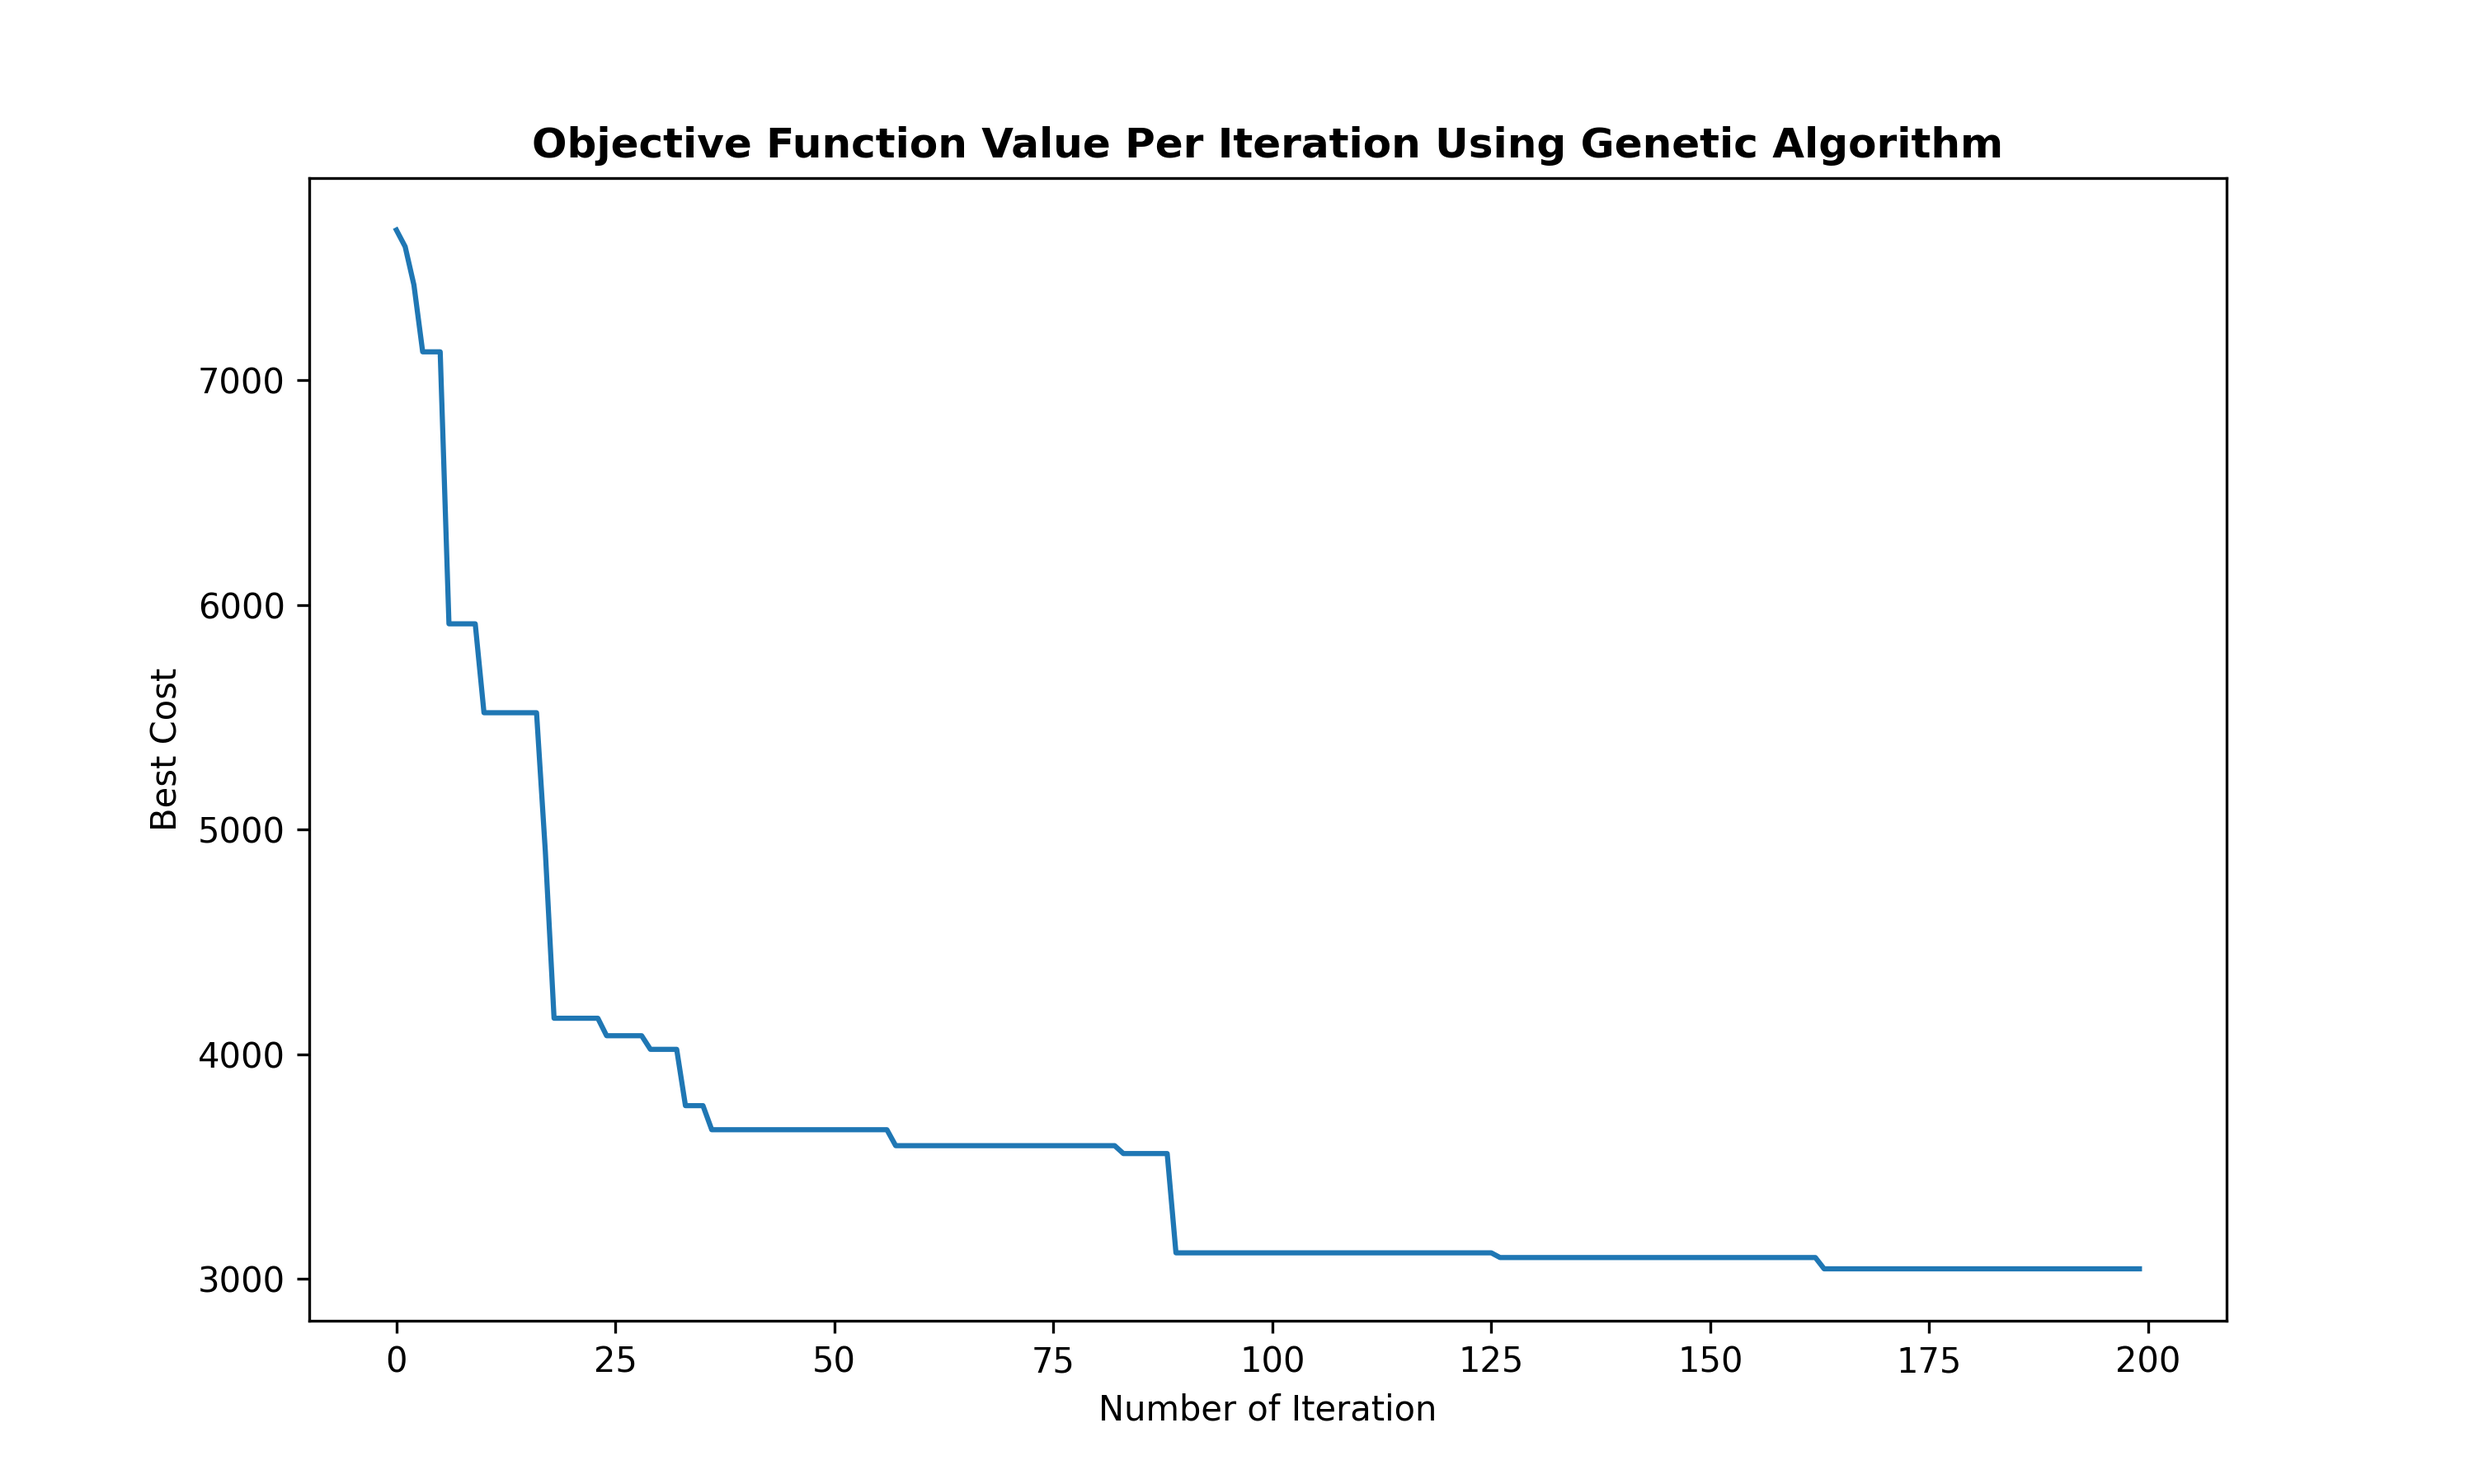
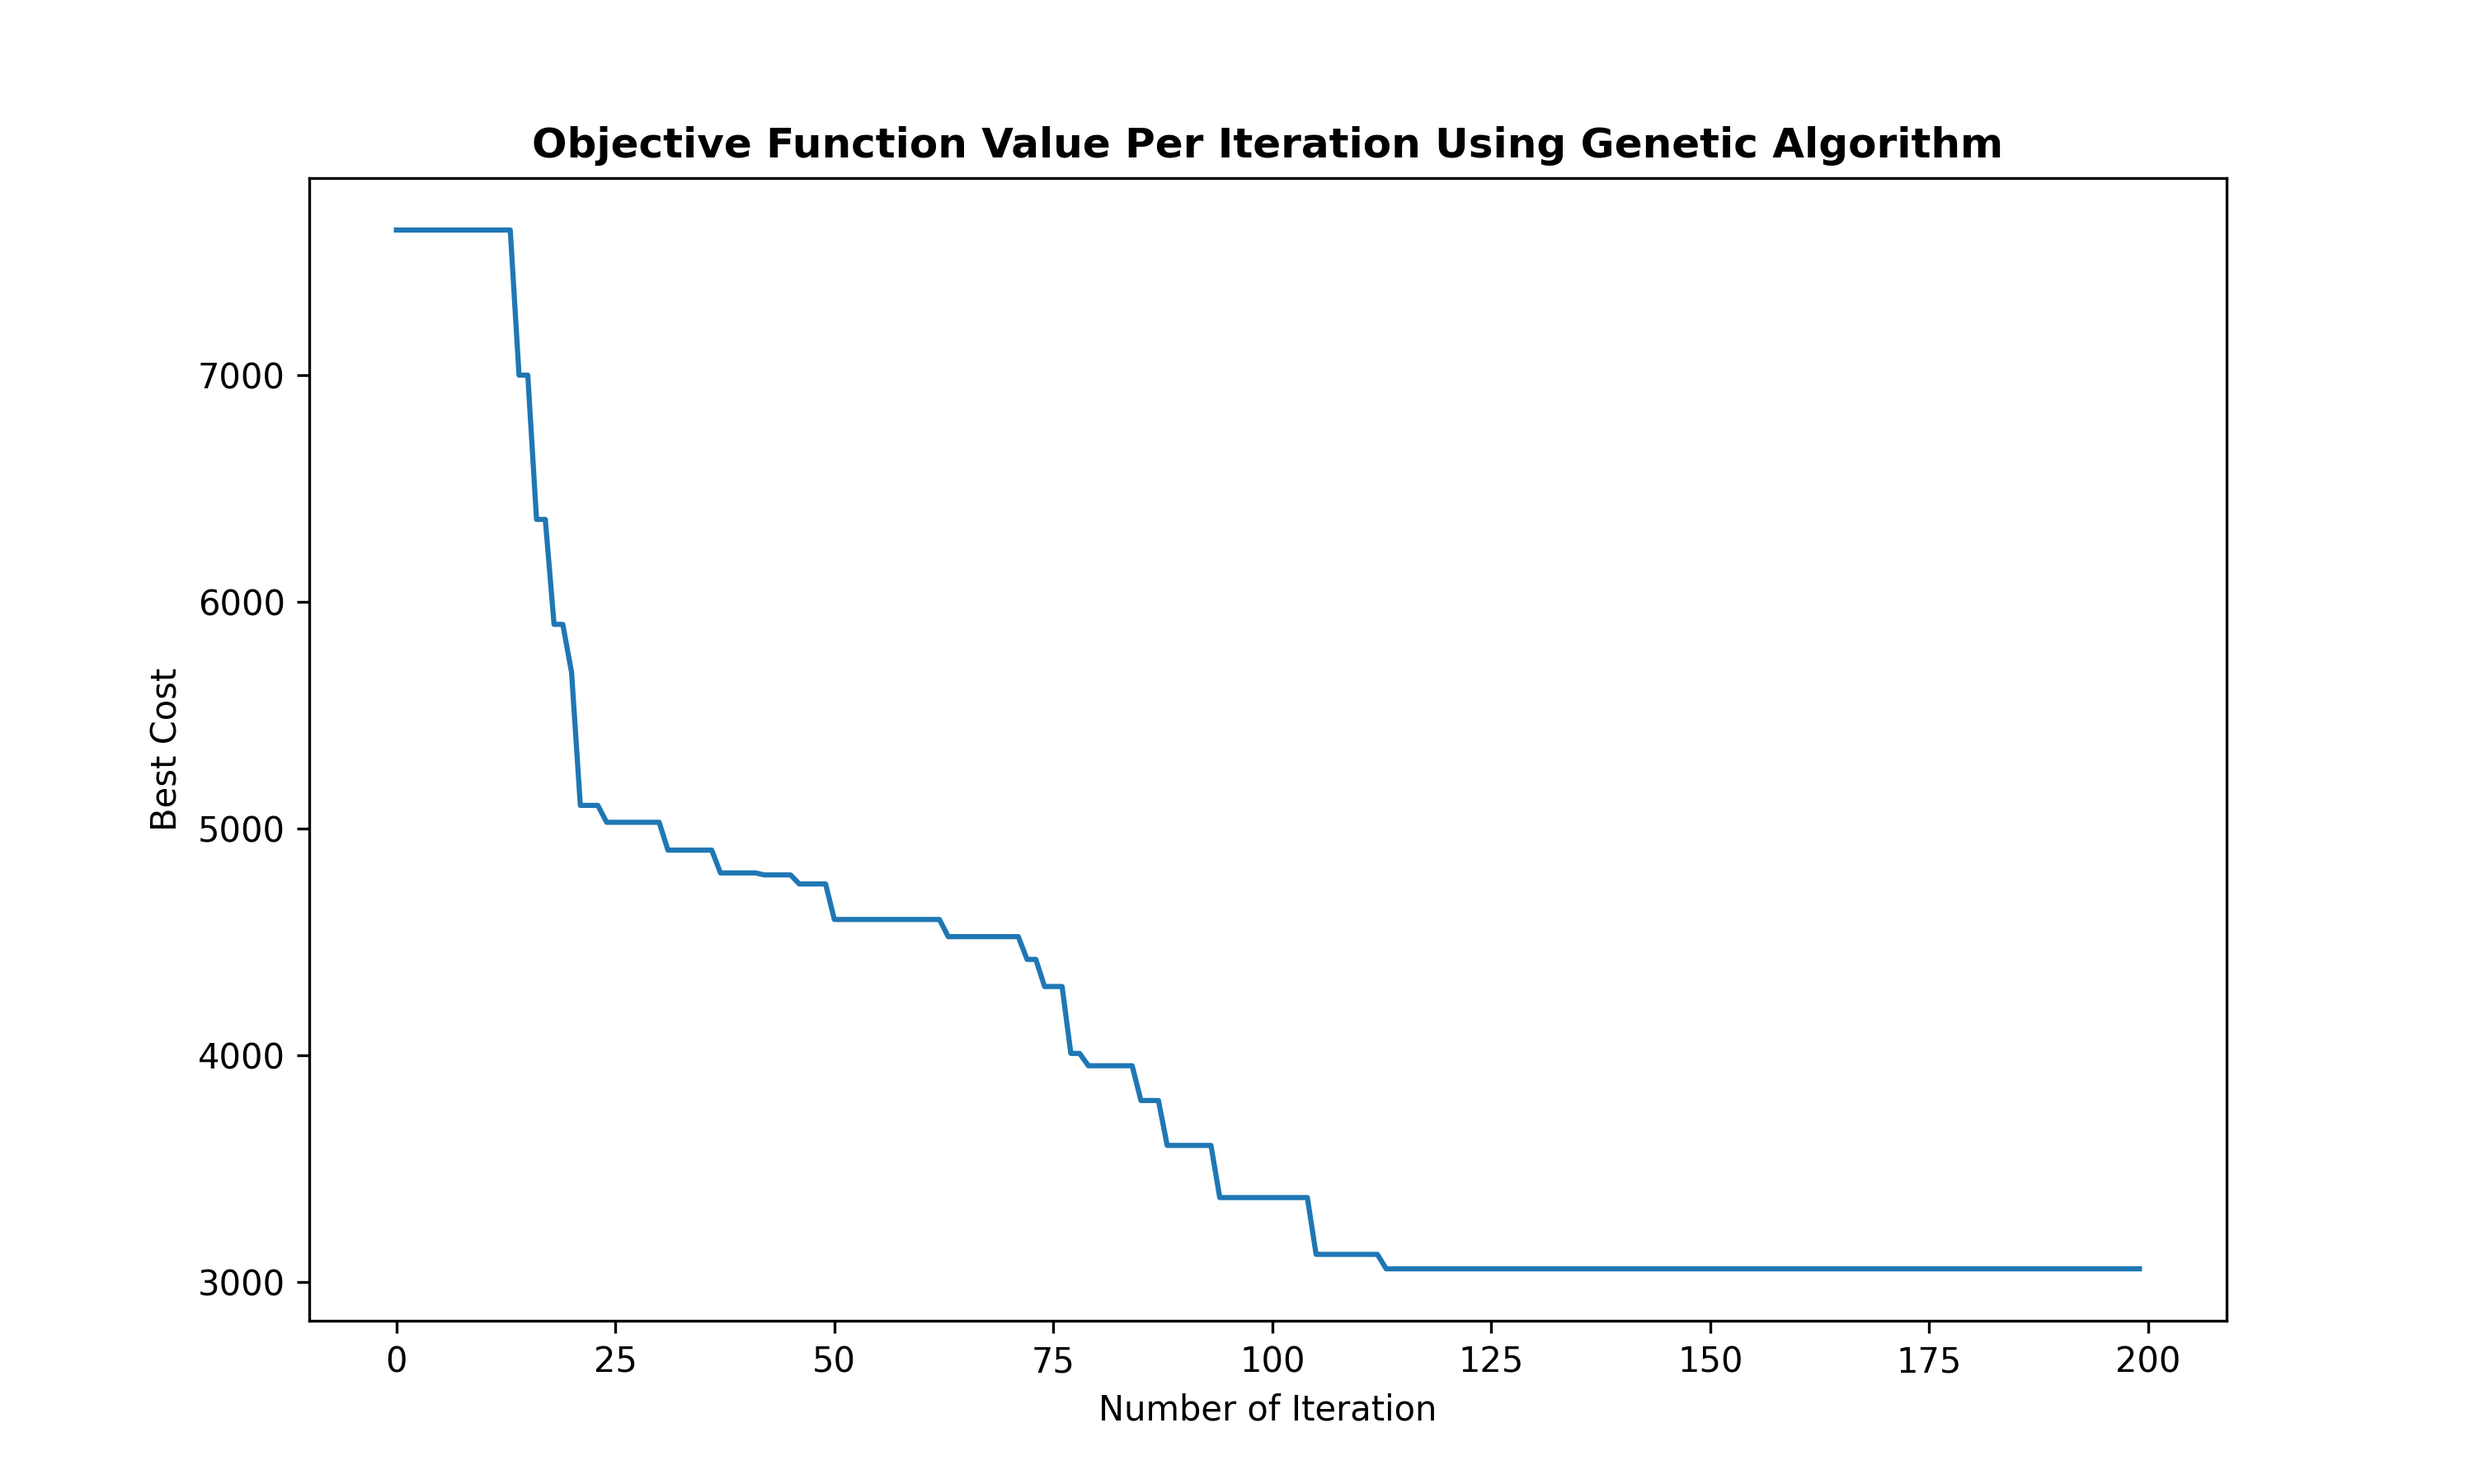
Quadratic Assignment Problem solved using Particle Swarm Optimization.

diff --git a/quadratic_assignment_problem/main.py b/quadratic_assignment_problem/main.py
@@ -2,6 +2,7 @@ from evolutionary_algorithms_examples.quadratic_assignment_problem.data import D
 from evolutionary_algorithms_examples.quadratic_assignment_problem.quadratic_assignment_problem import QuadraticAssignmentProblem
 from evolutionary_algorithms_examples.quadratic_assignment_problem.plot_assignment import plot
 from evolutionary_algorithms.genetic_algorithm import GA
+from evolutionary_algorithms.particle_swarm_optimization import PSO
 
 
 def main():
@@ -12,27 +13,50 @@ def main():
     # data.create_and_save()
 
     model_data = Data.load()
-    type_number_of_variables = {"permutation1D": [len(model_data["locations_x"])]}
+    # type_number_of_variables = {"permutation1D": [len(model_data["locations_x"])]}
+
+    type_number_of_variables = {"real1D": [len(model_data["locations_x"])]}
 
     problem = QuadraticAssignmentProblem()
     cost_func = problem.cost_function
 
-    solution_method = GA(cost_function=cost_func,
-                         type_number_of_variables=type_number_of_variables,
-                         max_iteration=200,
-                         number_of_population=20,
-                         parents_selection_method="roulette_wheel_selection",
-                         selection_pressure_for_roulette_wheel=7,
-                         crossover_percentage=0.7,
-                         mutation_percentage=0.4,
-                         mutation_rate=0.02,
-                         gamma_for_crossover=0.3,
-                         gamma_for_mutation=0.3,
-                         plot_cost_function=True)
+    # solution_method = GA(cost_function=cost_func,
+    #                      type_number_of_variables=type_number_of_variables,
+    #                      max_iteration=200,
+    #                      number_of_population=20,
+    #                      parents_selection_method="roulette_wheel_selection",
+    #                      selection_pressure_for_roulette_wheel=7,
+    #                      crossover_percentage=0.7,
+    #                      mutation_percentage=0.4,
+    #                      mutation_rate=0.02,
+    #                      gamma_for_crossover=0.3,
+    #                      gamma_for_mutation=0.3,
+    #                      plot_cost_function=True)
+    #
+    # solution_best, run_time = solution_method.run()
+    #
+    # plot(solution_best, model_data, "ga")
+
+    # return solution_best, run_time
+
+    solution_method = PSO(cost_function=cost_func,
+                          type_number_of_variables=type_number_of_variables,
+                          min_range_of_variables=0,
+                          max_range_of_variables=1,
+                          max_iteration=200,
+                          number_of_particles=100,
+                          inertia_rate=1,
+                          inertia_damping_rate=0.99,
+                          personal_learning_rate=1.6,
+                          global_learning_rate=1.6,
+                          tempo_limit=True,
+                          plot_cost_function=True,
+                          mutation_for_real=True,
+                          mutation_for_permutation=True)
 
     solution_best, run_time = solution_method.run()
 
-    plot(solution_best, model_data)
+    plot(solution_best, model_data, "pso")
 
     return solution_best, run_time
 

diff --git a/quadratic_assignment_problem/quadratic_assignment_problem.py b/quadratic_assignment_problem/quadratic_assignment_problem.py
@@ -1,5 +1,6 @@
 from evolutionary_algorithms_examples.quadratic_assignment_problem.data import Data
 import numpy as np
+import copy
 
 
 class QuadraticAssignmentProblem:
@@ -20,7 +21,16 @@ class QuadraticAssignmentProblem:
 
         distances = self._model_data["distances"]
 
-        x = x["permutation1D"][0]
+        if "permutation1D" in x.keys():
+
+            x = x["permutation1D"][0]
+
+        elif "real1D" in x.keys():
+
+            x = x["real1D"][0]
+            x = copy.deepcopy(x)
+            x = np.argsort(x, axis=1)
+
 
         x_parsed = self._parsed_solution(x)
 

diff --git a/quadratic_assignment_problem/plot_assignment.py b/quadratic_assignment_problem/plot_assignment.py
@@ -2,7 +2,7 @@ import matplotlib.pyplot as plt
 import os
 
 
-def plot(solution, model_data):
+def plot(solution, model_data, solution_method):
 
 
     solution = solution.solution_parsed["x_parsed"]
@@ -18,4 +18,4 @@ def plot(solution, model_data):
         plt.text(location_x[solution[0, i]],
                  location_y[solution[0, i]], str(i))
     plt.legend()
-    plt.savefig("./figures/assignment.png")
+    plt.savefig(f"./figures/assignment_{solution_method}.png")
